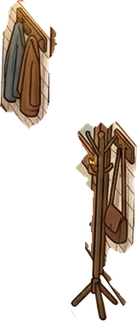
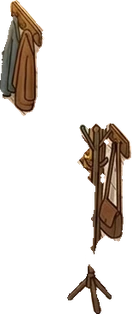
Бистро: убраны остатки старой стены и пола у кусков, гости за передними столиками целиком
Claude-Session: https://claude.ai/code/session_01DHEiVcyPj9Qv6m6TjqeSZK

Changed region(s): [[0.5152, 0.3726, 1.0, 1.0], [0.0, 0.0, 0.4242, 0.4013]]

diff --git a/src/game/bistroFrames.ts b/src/game/bistroFrames.ts
@@ -3,30 +3,30 @@ export const BISTRO_ROOM = { w: 997, h: 590 };
 /** Кусочки зала бистро «место-вещь[-half|-full]»: x, y, w, h в пикселях комнаты */
 export const BISTRO_FRAMES: Record<string, [number, number, number, number]> = {
   'b-center-commune': [293, 312, 302, 106],
-  'b-center-commune-full': [292, 241, 340, 280],
-  'b-center-commune-half': [292, 233, 303, 199],
-  'b-center-pair4': [230, 281, 392, 136],
-  'b-corner-cooler': [170, 177, 167, 152],
-  'b-corner-palm': [151, 138, 130, 197],
-  'b-door-coatstand': [819, 179, 137, 321],
-  'b-door-plant': [875, 307, 73, 194],
-  'b-front-1-table2': [199, 401, 187, 130],
+  'b-center-commune-full': [292, 241, 339, 280],
+  'b-center-commune-half': [293, 238, 302, 193],
+  'b-center-pair4': [235, 288, 386, 130],
+  'b-corner-cooler': [170, 178, 167, 151],
+  'b-corner-palm': [151, 140, 127, 195],
+  'b-door-coatstand': [824, 185, 132, 314],
+  'b-door-plant': [879, 307, 69, 194],
+  'b-front-1-table2': [199, 412, 187, 119],
   'b-front-1-table2-full': [199, 377, 198, 153],
   'b-front-1-table2-half': [199, 370, 198, 161],
-  'b-front-2-table2': [445, 412, 190, 118],
+  'b-front-2-table2': [445, 412, 189, 118],
   'b-front-2-table2-full': [435, 402, 200, 129],
-  'b-front-2-table2-half': [435, 412, 200, 118],
-  'b-side-booth': [684, 322, 198, 235],
-  'b-side-booth-full': [684, 316, 198, 241],
-  'b-side-booth-half': [684, 312, 198, 245],
-  'b-side-table4': [677, 303, 181, 168],
-  'b-wall-c-clock': [391, 38, 63, 60],
-  'b-wall-l-herbs': [187, 62, 147, 82],
-  'b-wall-l-poster': [273, 66, 73, 91],
-  'b-wall-r-menuboard': [520, 43, 248, 114],
-  'b-wall-r-tv': [567, 61, 130, 84],
-  'b-window-ficus': [53, 207, 139, 268],
-  'b-window-stools': [56, 207, 179, 260],
-  'b-window-stools-full': [56, 201, 173, 266],
-  'b-window-stools-half': [56, 197, 174, 270],
+  'b-front-2-table2-half': [441, 412, 194, 118],
+  'b-side-booth': [684, 329, 198, 222],
+  'b-side-booth-full': [684, 316, 198, 234],
+  'b-side-booth-half': [684, 312, 198, 239],
+  'b-side-table4': [677, 309, 173, 161],
+  'b-wall-c-clock': [398, 49, 48, 43],
+  'b-wall-l-herbs': [188, 62, 145, 81],
+  'b-wall-l-poster': [274, 66, 72, 91],
+  'b-wall-r-menuboard': [521, 43, 247, 113],
+  'b-wall-r-tv': [570, 65, 124, 78],
+  'b-window-ficus': [59, 208, 130, 265],
+  'b-window-stools': [58, 215, 171, 250],
+  'b-window-stools-full': [58, 201, 171, 263],
+  'b-window-stools-half': [58, 197, 172, 268],
 };

diff --git a/scripts/cut_bistro.py b/scripts/cut_bistro.py
@@ -68,6 +68,7 @@ def to_room(x: float, y: float) -> tuple[float, float]:
 
 
 MATTE = SRC / 'matte'
+EMPTY = np.zeros((896, 1200, 3), np.float32)
 MATTE_PAD = 12
 # Где кусок на исходнике (для вырезки фона в Magnific): имя → x0, y0, x1, y1
 # (берутся из boxes.json, если он есть: маски сделаны по этим кадрам)
@@ -94,13 +95,12 @@ def matted(name: str, alpha: np.ndarray) -> np.ndarray:
 
 # Что вырезать из кусочка (в пикселях исходника) — чужое, что маска фона приняла за своё:
 # край лавки общего стола у передних столиков, спинки их стульев у общего стола, коврик у вешалки,
-# подвесная лампа перед полкой (она есть в пустом зале). Гостей это не трогает
+# Гостей это не трогает
 CARVE: dict[str, list[tuple[int, int, int, int]]] = {
     'b-front-1-table2': [(360, 500, 714, 577), (362, 577, 396, 592), (676, 577, 714, 592)],
     'b-front-2-table2': [(360, 500, 714, 577), (362, 577, 396, 592), (676, 577, 714, 592)],
     'b-center-commune': [(450, 575, 478, 640), (528, 575, 558, 640)],
     'b-door-coatstand': [(1036, 520, 1076, 640)],
-    'b-wall-l-herbs': [(278, 210, 331, 265), (296, 140, 307, 212)],
 }
 
 
@@ -125,7 +125,26 @@ def save_piece(pic: np.ndarray, alpha: np.ndarray, name: str, keep: np.ndarray |
     if (MATTE / f'{name}.png').exists() and orig is not None:
         # Маска фона теней не держит: чёрная «тень» по краю стала бы рваной обводкой — берём родные цвета
         pic = orig
+    has_matte = (MATTE / f'{name}.png').exists()
     alpha = carve(name, matted(name, alpha), keep)
+    if has_matte:
+        # Маска фона держит и кусок стены или пола рядом с вещью — там, где картинка не отличается от пустого
+        # зала, прозрачно (лампа перед полкой, стена вокруг часов и вешалки, пол у столиков)
+        e, p = blur(EMPTY) + 1, blur(pic) + 1
+        ratio = p.sum(2) / e.sum(2)
+        # Тот же фон или он же в тени вещи (те же цвета, только темнее)
+        shaded = (np.abs(p - e * ratio[..., None]).max(2) < 9) & (ratio > 0.4) & (ratio < 1.08)
+        # …тень — только у края вещи: белый кулер на белой плитке или салфетница — не тень
+        shaded &= ~nd.binary_erosion(alpha > 0.9, iterations=8)
+        same = nd.binary_opening((np.abs(p - e).sum(2) < 20) | shaded, iterations=2)
+        if keep is not None:
+            same &= ~nd.binary_dilation(keep, iterations=2)
+        alpha = np.where(same, 0, alpha)
+        # Крошки
+        lab, n = nd.label(alpha > 0.1)
+        if n > 1:
+            sizes = nd.sum(alpha > 0.1, lab, range(1, n + 1))
+            alpha = np.where(np.isin(lab, np.nonzero(sizes < 60)[0] + 1), 0, alpha)
     ys, xs = np.nonzero(alpha > 0.04)
     if not len(ys):
         return None
@@ -211,12 +230,14 @@ def guests(base: dict, picture: str, furnished: np.ndarray, frames: dict, suffix
         alpha, col = base[slot]
         a = np.maximum(alpha, nd.gaussian_filter(mine.astype(np.float32), 0.7) * mine.max())
         c = np.where(mine[..., None], pic, col)
-        fr = save_piece(c, a, f'{slot}-{item}{suffix}', mine, np.where(mine[..., None], pic, rgb('L1')))
+        fr = save_piece(c, a, f'{slot}-{item}{suffix}', mine, pic)
         if fr:
             frames[f'{slot}-{item}{suffix}'] = fr
 
 
 def main() -> None:
+    global EMPTY
+    EMPTY = rgb('empty')
     OUT.mkdir(parents=True, exist_ok=True)
     for f in OUT.glob('*.webp'):
         f.unlink()
